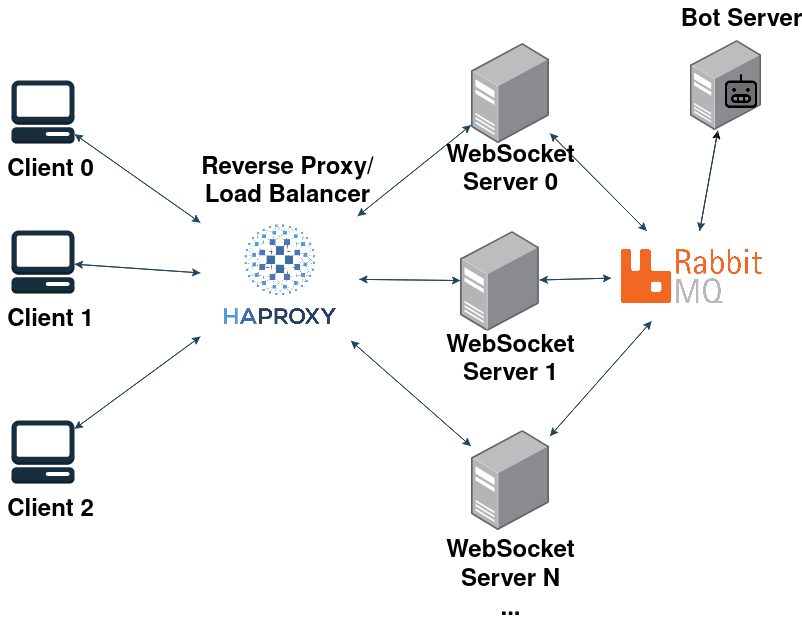
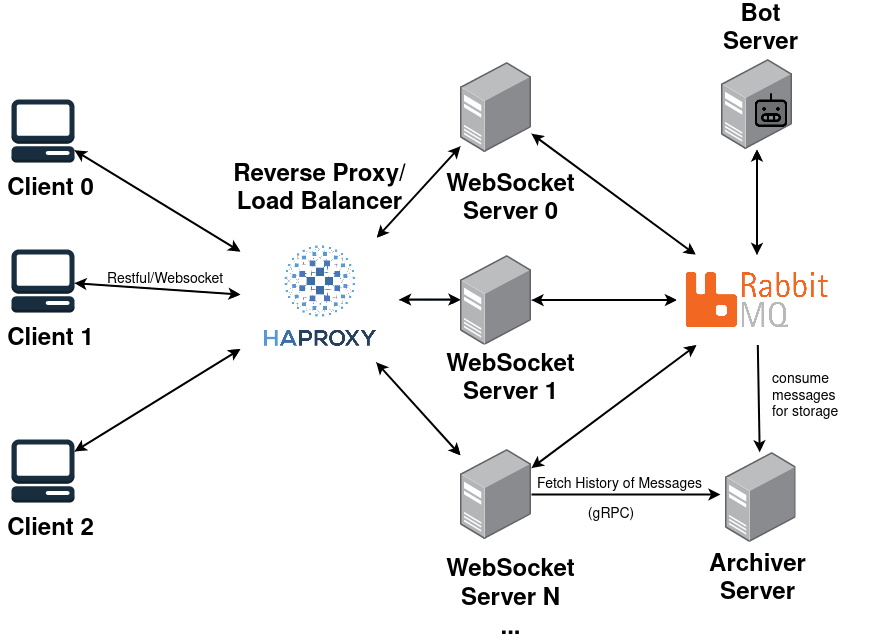
readme

diff --git a/README.md b/README.md
@@ -1,5 +1,5 @@
 # investor-chat
-investor-chat is a real-time chat application that runs in the browser.
+investor-chat is a real-time chat application that runs in the browser
 
 ## Preview
 https://github.com/ap-pauloafonso/investor-chat/assets/26802978/f3de8351-894e-42c3-9a7f-e1e43dfd3d19
@@ -7,37 +7,33 @@ https://github.com/ap-pauloafonso/investor-chat/assets/26802978/f3de8351-894e-42
 ## Features
 * Login/Register user
 * Real time chat
-* Multiple Channels
+* Multiple Channels(chatrooms)
 * Messages are archived in the database 
-* Chat-bot to get the current stock price: `/stock [STOCK_CODE]` - example `/stock=aapl.us`
+* Chat-bot to get the current stock price: `/stock=[STOCK_CODE]` - example `/stock=aapl.us`
 
-## Project 
+## Architecture 
 ![Diagram](media/diagram.png)
+* The Backend was built using Go, and is architected for high performance and scalability, The main idea is to use Restful APIS for login/signup/create-or-get-channels and Websockets for real time messaging
+* The architecture supports horizontal scalability with a reverse-proxy/load balancer (HAProxy) to distribute requests evenly across WebSocket servers. This can be expanded by spinning up additional WebSocketServer instances if needed
+  * This is achieved through the implementation of a 'sticky session' concept, where the balancer assigns a unique session cookie to the client. This cookie ensures that the user remains connected to a specific server until the session is terminated
 
-### Backend
-The Backend was built using Go, and is architected for high performance and scalability, featuring several key components:
-
-* WebSocket Communication: Using WebSockets to maintain open connections with clients, ensuring a faster chat experience compared to standard REST APIs.
-* Scalability: The architecture supports horizontal scalability with a reverse-proxy/load balancer (HAProxy) to distribute requests evenly across WebSocket servers. This can be expanded by spinning up additional WebSocketServer instances if needed.
-    * This is achieved through the implementation of a 'sticky session' concept, where the balancer assigns a unique session cookie to the client. This cookie ensures that the user remains connected to a specific server until the session is terminated
-* BotServer: Listens to messages requesting stock information, processes them, and places them back in the queue for WebSocketServers to consume and broadcast to all connections.
-* Pub/Sub Mechanism: Employing RabbitMQ for efficient communication between WebSocketServers and the BotServer.
-* Data Persistence: Since we want to have a history of data persisted, a consumer is set up to listen to new messages and write them to PostgreSQL. While non-relational databases like Cassandra could be used for faster read/write operations, PostgreSQL was chosen for simplicity.
+ ### Backend key components
+* **Database**: Using PostgreSQL for storage.
+* **WebsocketServer**: Blends WebSockets for instant messaging with RESTful APIs for login, signup, and channel management. This dual approach ensures quicker chat interactions with ongoing client connections, while following to standard REST protocols for other tasks
+* **BotServer**: Listens to messages requesting stock information, processes them, and places them back in the queue for WebSocketServers to consume and broadcast to all connections
+* **ArchiverServer**: Designed to ensure data history persistence by deploying a consumer to continuously listen for incoming messages and write them to the database. Additionally, it serves a gRPC server that allows clients to retrieve the history of messages stored in the database
+  * While non-relational databases like Cassandra could be used for faster read/write operations, **PostgreSQL** was chosen for simplicity as the other parts of the system also uses it
+* **Pub/Sub Mechanism**: Employing RabbitMQ for efficient communication between WebSocketServers, BotServer and the ArchiverServer
 
 ### Frontend (clients)
-* Built with React and tailwindcss.
+* Built with React and TailwindCSS and embedded into the go binary 
 
 ## Running it with Docker and Testing
 * Make sure that you don't have any other docker containers running
 * Run `docker-compose up --build`
 * Go to http://localhost
-* For testing with a second account, open an anonymous tab or another browser, as sessions are managed through cookies.
+* For testing with a second account, open an anonymous tab or another browser, as sessions are managed through cookies
 
 
 
-## Completed Bonus
-- [x] Have more than one chatroom.
 
-## Todo
-- write comments
-- write more tests
